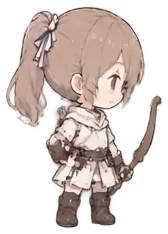
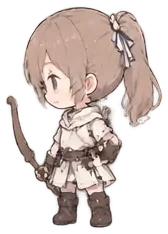
궁수(여)가 옆으로 걸을 때 반대쪽을 보던 문제를 고친다
게임은 옆모습 그림이 모두 왼쪽을 본다고 보고 오른쪽으로 걸을 때만 뒤집는다.
원본 시트에서 궁수(여)의 옆모습만 오른쪽을 보고 있어, 왼쪽으로 걸으면 오른쪽을, 오른쪽으로 걸으면 왼쪽을 봤다.
자르는 스크립트(design/characters/rpg_cut.py)에 이 한 장만 좌우를 뒤집는 규칙을 넣고 원본에서 다시 잘라 냈다.
다른 그림은 바뀌지 않았다.

Claude-Session: https://claude.ai/code/session_01XNSb9AmVigxniLxHDRsHJJ

diff --git a/src/game/updates.js b/src/game/updates.js
@@ -8,6 +8,7 @@ export const UPDATES = [
     items: [
       "RPG 서버에 들어가지 않고 \"그 코드의 방을 찾지 못했습니다\"가 뜨던 문제를 고쳤습니다. 방금 닫은 탭이나 잠든 휴대폰처럼 응답 없는 사람이 접속 목록에 남아 있으면 아무도 판정을 맡지 않아 생기던 문제입니다.",
       "이제 판정 맡을 사람을 한 번만 정하지 않고 계속 다시 확인합니다. 판정하던 사람이 나가거나 응답이 끊겨도 몇 초 안에 남은 사람이 이어받습니다.",
+      "궁수(여) 캐릭터가 옆으로 걸을 때 걷는 방향과 반대쪽을 보던 문제를 고쳤습니다.",
       "\"연결이 끊겼습니다\"가 계속 뜨던 문제를 고쳤습니다. RPG에서 나갔다가 바로 다시 들어오면 닫히는 중인 옛 연결을 다시 쓰던 것을 고쳤고, 연결이 잠깐 끊겼다가 다시 붙으면 안내가 저절로 사라집니다.",
     ],
   },

diff --git a/design/characters/rpg_cut.py b/design/characters/rpg_cut.py
@@ -21,6 +21,9 @@ for i in big:
     r = 0 if cy < 380 else 1 if cy < 700 else 2
     rows.setdefault(r, []).append(i)
 PAD = 6
+# 게임은 옆모습이 모두 왼쪽을 본다고 보고 그린다(오른쪽으로 걸을 때 뒤집는다).
+# 원본 시트에서 궁수(여)의 옆모습만 오른쪽을 보고 있어 좌우를 뒤집어 맞춘다.
+MIRROR = {("archer", "f", "side")}
 for r, ids in rows.items():
     ids.sort(key=lambda i: objs[i][1].start)
     assert len(ids) == 8, (r, len(ids))
@@ -37,6 +40,8 @@ for r, ids in rows.items():
         px = a.copy()
         px[..., 3] = np.where(mask | ((a[..., 3] > 0) & ndimage.binary_dilation(mask, iterations=2)), a[..., 3], 0)
         crop = Image.fromarray(px).crop((max(0, x0 - PAD), max(0, y0 - PAD), min(a.shape[1], x1 + PAD), min(a.shape[0], y1 + PAD)))
+        if (JOBS[r], g, v) in MIRROR:
+            crop = crop.transpose(Image.FLIP_LEFT_RIGHT)
         d = os.path.join(out, f"{JOBS[r]}-{g}")
         os.makedirs(d, exist_ok=True)
         crop.save(os.path.join(d, f"{v}.webp"), "WEBP", quality=92, alpha_quality=100, method=6)
